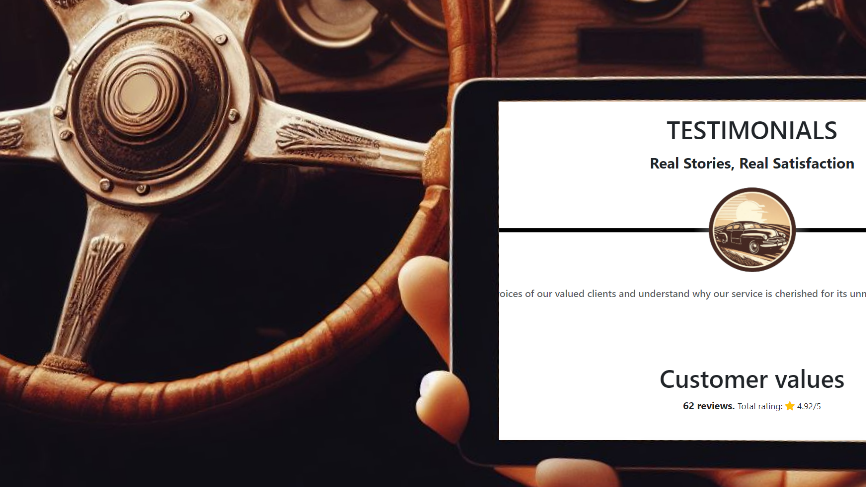
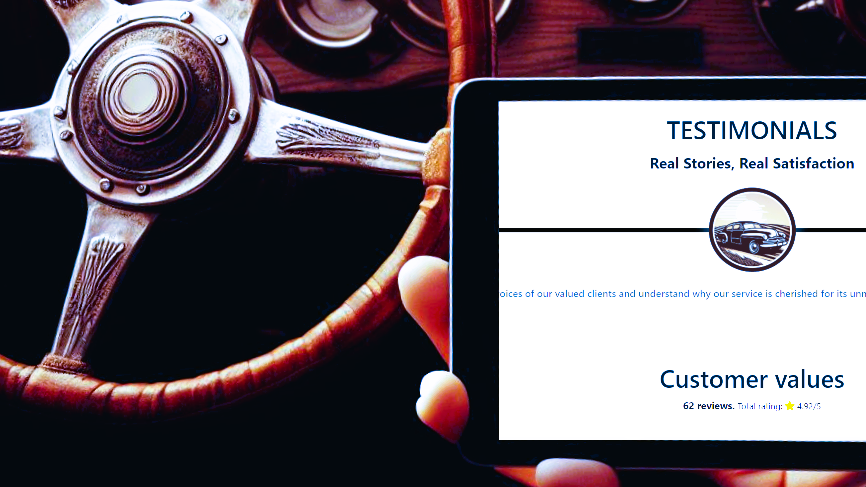
major ui update

diff --git a/CarRental/wwwroot/css/app.css b/CarRental/wwwroot/css/app.css
@@ -1,5 +1,6 @@
 html, body {
     font-family: 'Segoe UI', Tahoma, Geneva, Verdana, sans-serif;
+    color: #233448;
 }
 
 h1:focus {
@@ -80,8 +81,16 @@ h1:focus {
         content: var(--blazor-load-percentage-text, "Loading");
     }
 
-.small-card-text {
-    font-size: 0.8rem;
+.sig-color {
+    color: #233448;
+}
+
+.sig-border {
+    border: 1px solid #233448;
+}
+
+.sig-badge {
+    background-color: #482a22;
 }
 
 /* Smaller screens */
@@ -126,14 +135,6 @@ h1:focus {
     background: #fff;
 }
 
-.text-outline {
-    color: white;
-    text-shadow: -1px -1px 0 #000, 
-    1px -1px 0 #000,
-    -1px 1px 0 #000,
-    1px 1px 0 #000;
-}
-
 .carousel-item img {
     width: 100%;
 }
@@ -172,7 +173,7 @@ h1:focus {
     height: auto;
     min-height: 100%;
     width: 3px;
-    background: #343a40;
+    background: #233448;
     position: absolute;
     left: 50%;
     top: 0;

diff --git a/CarRental/Shared/NavMenu.razor.css b/CarRental/Shared/NavMenu.razor.css
@@ -3,6 +3,7 @@
     display: flex;
     align-items: center;
     justify-content: flex-end;
+    border-bottom: 1px solid #233448;
 }
 
 .navbar-brand {
@@ -20,6 +21,7 @@
     font-size: 1.2rem;
     padding-bottom: 1.2rem;
     margin-left: 1rem;
+    color: #233448;
 }
 
     .nav-item:first-of-type {
@@ -31,7 +33,7 @@
     }
 
     .nav-item ::deep a {
-        color: #808080;
+        color: #233448;
         border-radius: 4px;
         height: 3rem;
         display: flex;
@@ -41,12 +43,13 @@
 
         .nav-item ::deep a.active {
             background-color: rgba(255,255,255,0.25);
-            color: #333;
+            color: #482a22;
+            font-weight: bold;
         }
 
         .nav-item ::deep a:hover {
             background-color: rgba(255,255,255,0.1);
-            color: #000;
+            color: #777;
         }
 
 @media (min-width: 768px) {

diff --git a/CarRental/Shared/MainLayout.razor.css b/CarRental/Shared/MainLayout.razor.css
@@ -6,6 +6,7 @@
 
 main {
     flex: 1;
+    border-left: 1px solid #233448;
 }
 
 .sidebar {
@@ -18,6 +19,7 @@ main {
     height: 4rem;
     display: flex;
     align-items: center;
+    border-bottom: 1px solid #233448;
 }
 
     .top-row ::deep a, .top-row ::deep .btn-link {
